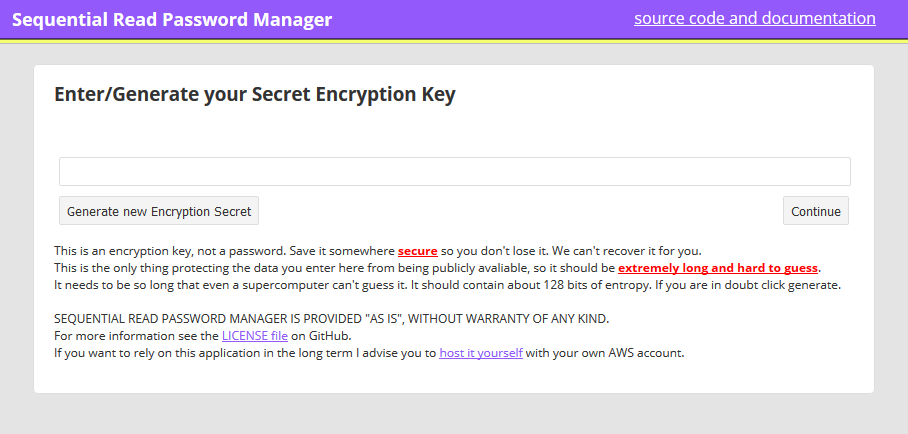
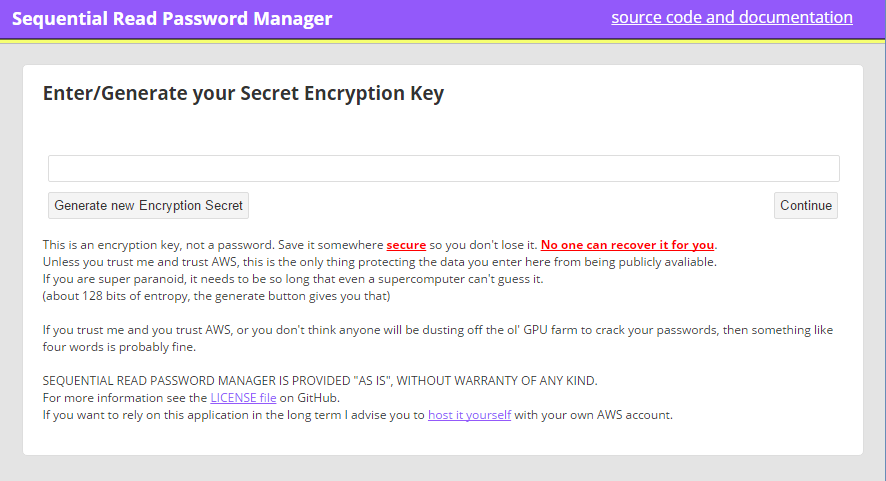
update readme, fine-tune the secret length disclaimer on the app, and update the screenshot

Changed region(s): [[0.0, 0.0, 1.0, 0.9585]]

diff --git a/ReadMe.md b/ReadMe.md
@@ -43,21 +43,25 @@ It was designed that way to strengthen the claim that "everything it sends out f
 
  It will also work even if your device has no internet connection, of course any changes will not be sent to my server or to S3 until you can connect again.
 
- It uses a naive approach to keep all 3 data stores in sync: When writing, it will attempt to write to all 3 and tolerate failures. When reading, it will compare the `lastUpdated` timestamps on all versions that it received, and if they don't match, it will issue a `PUT` with the most up-to-date version.
+ It uses a naive approach to keep all 3 data stores in sync: When writing, it will attempt to write to all 3 and tolerate failures. When reading, it will compare the `lastUpdated` timestamps on all versions that it received, and if they don't match or if one is missing, it will issue a `PUT` with the most up-to-date version.
 
  That means if you happen to make conflicting changes, there is no real conflict resolution. The latest one wins.
 
 ## Encryption Key User Interface Disclaimer
 
- You are allowed to use whatever seed you want for your AES key. If you pick a weak seed and get hacked, that is your fault. The application warned you about it. It was even red, bold and underlined!
+You are allowed to use whatever seed you want for your AES key. If you pick a weak seed and get hacked, that is your fault. The application warned you about it. It was even red, bold and underlined!
 
- The application includes an HMAC-SHA256/mouse-movement based entropy generator to create a secure ~128 bit key, encoded in base 10,000. It will appear as a collection of a few english words/phrases. An example:
+The application includes a timestamp + mouse-movement + SHA256 based entropy generator to create a secure ~128 bit key, encoded in base 10,000. It will appear as a collection of a few english words/phrases. An example:
 
- `bedrooms confirmation decor generic wondering temperatures bm retreat beer`
+`bedrooms confirmation decor generic wondering temperatures bm retreat beer`
 
- Assuming you could use [top-of-the-line hardware](https://en.bitcoin.it/wiki/Mining_hardware_comparison) (A Bitmain Antminer S9 in this case), how long would it take to guess every possible combination of words? [A very, VERY long time](https://www.wolframalpha.com/input/?i=(10000%5E9)%2F(1.4e%2B13)+seconds+in+years)
+Assuming the attacker had access to the ciphertext and could use [top-of-the-line hardware](https://en.bitcoin.it/wiki/Mining_hardware_comparison) (A Bitmain Antminer S9 in this case), how long would it take to guess every possible combination of words? [A very, VERY long time](https://www.wolframalpha.com/input/?i=(10000%5E9)%2F(1.4e%2B13)+seconds+in+years)
 
- For comparison, under the same scenario, a key with only 4 words would be cracked within **10 Minutes**.
+For comparison, under the same scenario, a key with only 4 words would be cracked within **10 Minutes**.
+
+Does that mean a key with 4 words is not secure enough? It might depend on the situation. 
+
+Casual remote attackers probably won't have access to the ciphertext since they would have to look at your localstorage or guess a gazzillion things over HTTP. I just put a scary disclaimer on the app since I don't want to be holding people's weakly encrypted data.
 
 ## License
 
